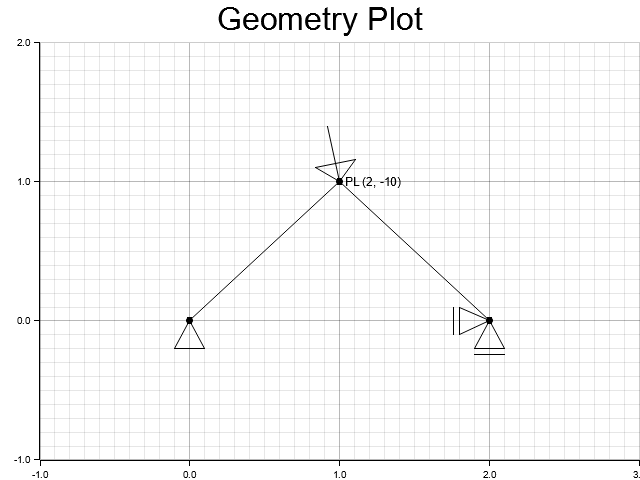
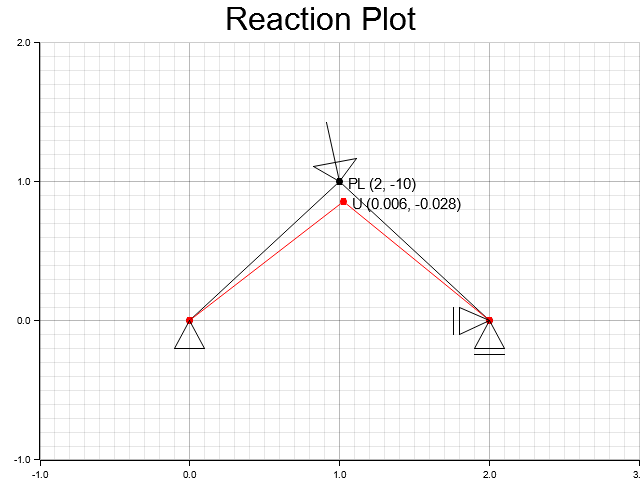
added plotting functions and labels on result plots

diff --git a/src/output/plots.rs b/src/output/plots.rs
@@ -3,26 +3,24 @@ use crate::input::connection::Connection;
 use crate::input::boundary_condition::BoundaryCondition;
 use crate::input::pointload::Pointload;
 
-
 use plotters::prelude::*;
 use plotters::coord::types::RangedCoordf32;
 
+
 pub fn geometry_plot(kp_list:&[Keypoint], 
-                     kp_size:f32, 
                      conn_list:&[Connection], 
                      bc_list:&[BoundaryCondition], 
-                     bc_size:f32, 
                      pl_list:&[Pointload], 
-                     pl_size:f32,
+                     plot_feature_size:f32,
                      output_path:&str,
                      dimension:(u32, u32),
                      chart_title:&str) -> Result<(), Box<dyn std::error::Error>> {
 
     // Creating the plotting canvas, returning the struct "chart_context"
-    let mut chart_context = plotting_canvas(&kp_list, &output_path, dimension, &chart_title);
+    let mut chart_context = plot_canvas(&kp_list, &output_path, dimension, &chart_title);
 
     for kp in kp_list {
-        plot_keypoint(&mut chart_context, &kp, kp_size);
+        plot_keypoint(&mut chart_context, &kp, plot_feature_size);
     }
 
     for conn in conn_list {
@@ -30,50 +28,52 @@ pub fn geometry_plot(kp_list:&[Keypoint],
     }
 
     for bc in bc_list {
-        plot_boundary_condition(&mut chart_context, &bc, &kp_list, bc_size);
+        plot_boundary_condition(&mut chart_context, &bc, &kp_list, plot_feature_size);
     }
 
     for pl in pl_list {
-        plot_pointload(&mut chart_context, &pl, &kp_list, pl_size);
+        plot_pointload(&mut chart_context, &pl, &kp_list, plot_feature_size);
     }
-    
+
     Ok(())
 }
 
 pub fn reaction_plot(kp_list:&[Keypoint], 
-                     kp_size:f32, 
                      conn_list:&[Connection], 
                      bc_list:&[BoundaryCondition], 
-                     bc_size:f32, 
                      pl_list:&[Pointload], 
-                     pl_size:f32,
+                     plot_feature_size:f32,
                      output_path:&str,
                      dimension:(u32, u32),
-                     chart_title:&str) -> Result<(), Box<dyn std::error::Error>> {
+                     chart_title:&str,
+                     plot_result_scale:f32,
+                     plot_result_decimals:usize,) -> Result<(), Box<dyn std::error::Error>> {
 
     // Creating the plotting canvas, returning the struct "chart_context"
-    let mut chart_context = plotting_canvas(&kp_list, &output_path, dimension, &chart_title);
+    let mut chart_context = plot_canvas(&kp_list, &output_path, dimension, &chart_title);
 
     for kp in kp_list {
-        plot_keypoint(&mut chart_context, &kp, kp_size);
+        plot_keypoint(&mut chart_context, &kp, plot_feature_size);
+        plot_keypoint_displaced(&mut chart_context, &kp, plot_feature_size, plot_result_scale, plot_result_decimals);
     }
 
     for conn in conn_list {
         plot_connection(&mut chart_context, &conn, &kp_list);
+        plot_connection_displaced(&mut chart_context, &conn, &kp_list, plot_result_scale);
     }
 
     for bc in bc_list {
-        plot_boundary_condition(&mut chart_context, &bc, &kp_list, bc_size);
+        plot_boundary_condition(&mut chart_context, &bc, &kp_list, plot_feature_size);
     }
 
     for pl in pl_list {
-        plot_pointload(&mut chart_context, &pl, &kp_list, pl_size);
+        plot_pointload(&mut chart_context, &pl, &kp_list, plot_feature_size);
     }
     
     Ok(())
 }
 
-fn plotting_canvas<'a>(kp_list:&[Keypoint], 
+fn plot_canvas<'a>(kp_list:&[Keypoint],
                    output_path:&'a str,
                    dimension: (u32, u32),
                    chart_title:&str) -> ChartContext<'a, BitMapBackend<'a>, Cartesian2d<RangedCoordf32, RangedCoordf32>> {
@@ -111,10 +111,24 @@ fn plotting_canvas<'a>(kp_list:&[Keypoint],
 }
 
 fn plot_keypoint(chart_context:&mut ChartContext<BitMapBackend, Cartesian2d<RangedCoordf32, RangedCoordf32>>, 
-                 keypoint:&Keypoint, size:f32) {
+                 keypoint:&Keypoint, plot_feature_size:f32) {
     let x = keypoint.x as f32;
     let y = keypoint.y as f32;
-    let _ = chart_context.draw_series(std::iter::once(Circle::new((x,y), size, ShapeStyle::from(&BLACK).filled())));
+    let _ = chart_context.draw_series(std::iter::once(Circle::new((x,y), plot_feature_size, ShapeStyle::from(&BLACK).filled())));
+    }
+
+// Plotting resulting keypoint locations, after being displaced.
+fn plot_keypoint_displaced(chart_context:&mut ChartContext<BitMapBackend, Cartesian2d<RangedCoordf32, RangedCoordf32>>, 
+                 keypoint:&Keypoint, plot_feature_size:f32, plot_result_scale:f32, plot_result_decimals:usize) {
+    let x = keypoint.x as f32 + keypoint.ux as f32 * plot_result_scale;
+    let y = keypoint.y as f32 + keypoint.uy as f32 * plot_result_scale;
+    let _ = chart_context.draw_series(std::iter::once(Circle::new((x,y), plot_feature_size, ShapeStyle::from(&RED).filled())));
+    
+    if keypoint.ux != 0.0 || keypoint.uy != 0.0 {
+        let label = format!("U ({:.2$}, {:.2$})", keypoint.ux, keypoint.uy, plot_result_decimals);
+        plot_label(label, x, y, plot_feature_size, chart_context);
+        }
+    
     }
 
 fn plot_connection(chart_context:&mut ChartContext<BitMapBackend, Cartesian2d<RangedCoordf32, RangedCoordf32>>, 
@@ -123,13 +137,33 @@ fn plot_connection(chart_context:&mut ChartContext<BitMapBackend, Cartesian2d<Ra
     // Finding the keypoint coordinates through the keypoint struct
     let kp1 = kp_list.iter().find(|kp| kp.name == connection.kp_1).unwrap();
     let kp2 = kp_list.iter().find(|kp| kp.name == connection.kp_2).unwrap();
+    let kp1_x = kp1.x as f32;
+    let kp1_y = kp1.y as f32;
+    let kp2_x = kp2.x as f32;
+    let kp2_y = kp2.y as f32;
 
-    let _ = chart_context.draw_series(LineSeries::new(vec![(kp1.x as f32, kp1.y as f32), (kp2.x as f32, kp2.y as f32)],&BLACK));
+    let _ = chart_context.draw_series(LineSeries::new(vec![(kp1_x, kp1_y), (kp2_x, kp2_y)],&BLACK));
     }
 
+fn plot_connection_displaced(chart_context:&mut ChartContext<BitMapBackend, Cartesian2d<RangedCoordf32, RangedCoordf32>>, 
+                 connection:&Connection, kp_list:&[Keypoint], plot_result_scale:f32) {
+
+    // Finding the keypoint coordinates through the keypoint struct
+    let kp1 = kp_list.iter().find(|kp| kp.name == connection.kp_1).unwrap();
+    let kp2 = kp_list.iter().find(|kp| kp.name == connection.kp_2).unwrap();
+    let kp1_x = kp1.x as f32 + kp1.ux as f32 * plot_result_scale;
+    let kp1_y = kp1.y as f32 + kp1.uy as f32 * plot_result_scale;
+    let kp2_x = kp2.x as f32 + kp2.ux as f32 * plot_result_scale;
+    let kp2_y = kp2.y as f32 + kp2.uy as f32 * plot_result_scale;
+
+    let _ = chart_context.draw_series(LineSeries::new(vec![(kp1_x, kp1_y), (kp2_x, kp2_y)],&RED));
+    }    
+
 fn plot_boundary_condition(chart_context:&mut ChartContext<BitMapBackend, Cartesian2d<RangedCoordf32, RangedCoordf32>>, 
-                 boundary_condition:&BoundaryCondition, kp_list:&[Keypoint], size:f32) {
-    
+                 boundary_condition:&BoundaryCondition, kp_list:&[Keypoint], plot_feature_size:f32) {
+
+    let size:f32 = plot_feature_size/15.0;
+
     // Finding the keypoint of the boundary condition, and its x and y coordinates.
     let kp = kp_list.iter().find(|kp| kp.name == boundary_condition.keypoint).unwrap();
     let x = kp.x as f32;
@@ -156,7 +190,8 @@ fn plot_boundary_condition(chart_context:&mut ChartContext<BitMapBackend, Cartes
 }
 
 fn plot_pointload(chart_context:&mut ChartContext<BitMapBackend, Cartesian2d<RangedCoordf32, RangedCoordf32>>, 
-                 pointload:&Pointload, kp_list:&[Keypoint], size:f32) {
+                 pointload:&Pointload, kp_list:&[Keypoint], plot_feature_size:f32) {
+    let size:f32 = plot_feature_size/7.0;
 
     // Finding the keypoint coordinates through the keypoint struct
     let kp = kp_list.iter().find(|kp| kp.name == pointload.keypoint).unwrap();
@@ -177,11 +212,15 @@ fn plot_pointload(chart_context:&mut ChartContext<BitMapBackend, Cartesian2d<Ran
                                          (x, y)],ShapeStyle::from(&BLACK).filled());
     chart_context.draw_series(std::iter::once(triangle)).unwrap();
     
-    let label = Text::new(
-    format!("PL ({}, {})", pointload.load_x, pointload.load_y),
-    (x+size/10.0, y+size/10.0),
-    ("sans-serif", 15).into_font().color(&BLACK),
-    );
+    plot_label(format!("PL ({}, {})", pointload.load_x, pointload.load_y),
+               x, y, plot_feature_size, chart_context);
+    }
 
+fn plot_label(text_label: String, x:f32, y:f32, plot_feature_size: f32,
+              chart_context: &mut ChartContext<BitMapBackend, 
+                                  Cartesian2d<RangedCoordf32, 
+                                  RangedCoordf32>>) {
+    let text_size: i32 = (plot_feature_size*6.0) as i32;
+    let label = Text::new(text_label, (x+plot_feature_size/50.0, y+plot_feature_size/100.0),("sans-serif", text_size).into_font().color(&BLACK));
     let _ = chart_context.draw_series(std::iter::once(label));
     }

diff --git a/src/main.rs b/src/main.rs
@@ -19,6 +19,9 @@ mod material_formulation {
 
 mod output {
     pub mod plots;
+}
+
+mod data_formatting {
     pub mod generate_result_structs;
 }
 
@@ -34,19 +37,21 @@ use fe_engine::global_stiffness_matrix::{
     calculate_resulting_force_vector};
 use fe_engine::dof_filter_vector::{create_dof_filter_vector};
 use fe_engine::force_vector::{create_force_vector};
-use output::plots::{geometry_plot};
-use output::generate_result_structs::{generate_result_keypoint};
+use output::plots::{geometry_plot, reaction_plot};
+use data_formatting::generate_result_structs::{generate_result_keypoint};
 
 // Hardcoding material parameters, 
 // A=Area
 // E=Stiffness
 const MATERIAL_AREA: f64 = 5000.0;
 const MATERIAL_E_MODULE: f64 = 0.1;
-const KEYPOINT_PLOT_SIZE: f32 = 3.0;
-const BC_PLOT_SIZE: f32 = 0.2;
 const POINTLOAD_PLOT_SIZE: f32 = 0.4;
-const GEOMETRY_PLOT_OUTPUT_PATH: &str = "outputs/reaction_plot.png";
+const GEOMETRY_PLOT_OUTPUT_PATH: &str = "outputs/geometry_plot.png";
+const REACTION_PLOT_OUTPUT_PATH: &str = "outputs/reaction_plot.png";
 const PLOT_DIMENSION: (u32, u32) = (640, 480);
+const PLOT_RESULT_SCALE: f32 = 5.0;
+const PLOT_FEATURE_SIZE: f32 = 3.0;
+const PLOT_RESULT_DECIMALS: usize = 3;
 
 fn main() {
     let mut kp_list = parse_keypoint("inputs/keypoints.txt");
@@ -83,13 +88,22 @@ fn main() {
     println!("Resulting keypoint forces and displacements:\n{:#?}", kp_list);
 
     let _ = geometry_plot(&kp_list, 
-                          KEYPOINT_PLOT_SIZE, 
                           &conn_list, 
                           &bc_list, 
-                          BC_PLOT_SIZE, 
                           &pl_list, 
-                          POINTLOAD_PLOT_SIZE,
+                          PLOT_FEATURE_SIZE,
                           &GEOMETRY_PLOT_OUTPUT_PATH,
                           PLOT_DIMENSION,
                           &"Geometry Plot");
+
+    let _ = reaction_plot(&kp_list, 
+                          &conn_list, 
+                          &bc_list, 
+                          &pl_list, 
+                          PLOT_FEATURE_SIZE,
+                          &REACTION_PLOT_OUTPUT_PATH,
+                          PLOT_DIMENSION,
+                          &"Reaction Plot",
+                          PLOT_RESULT_SCALE,
+                          PLOT_RESULT_DECIMALS);
 }
